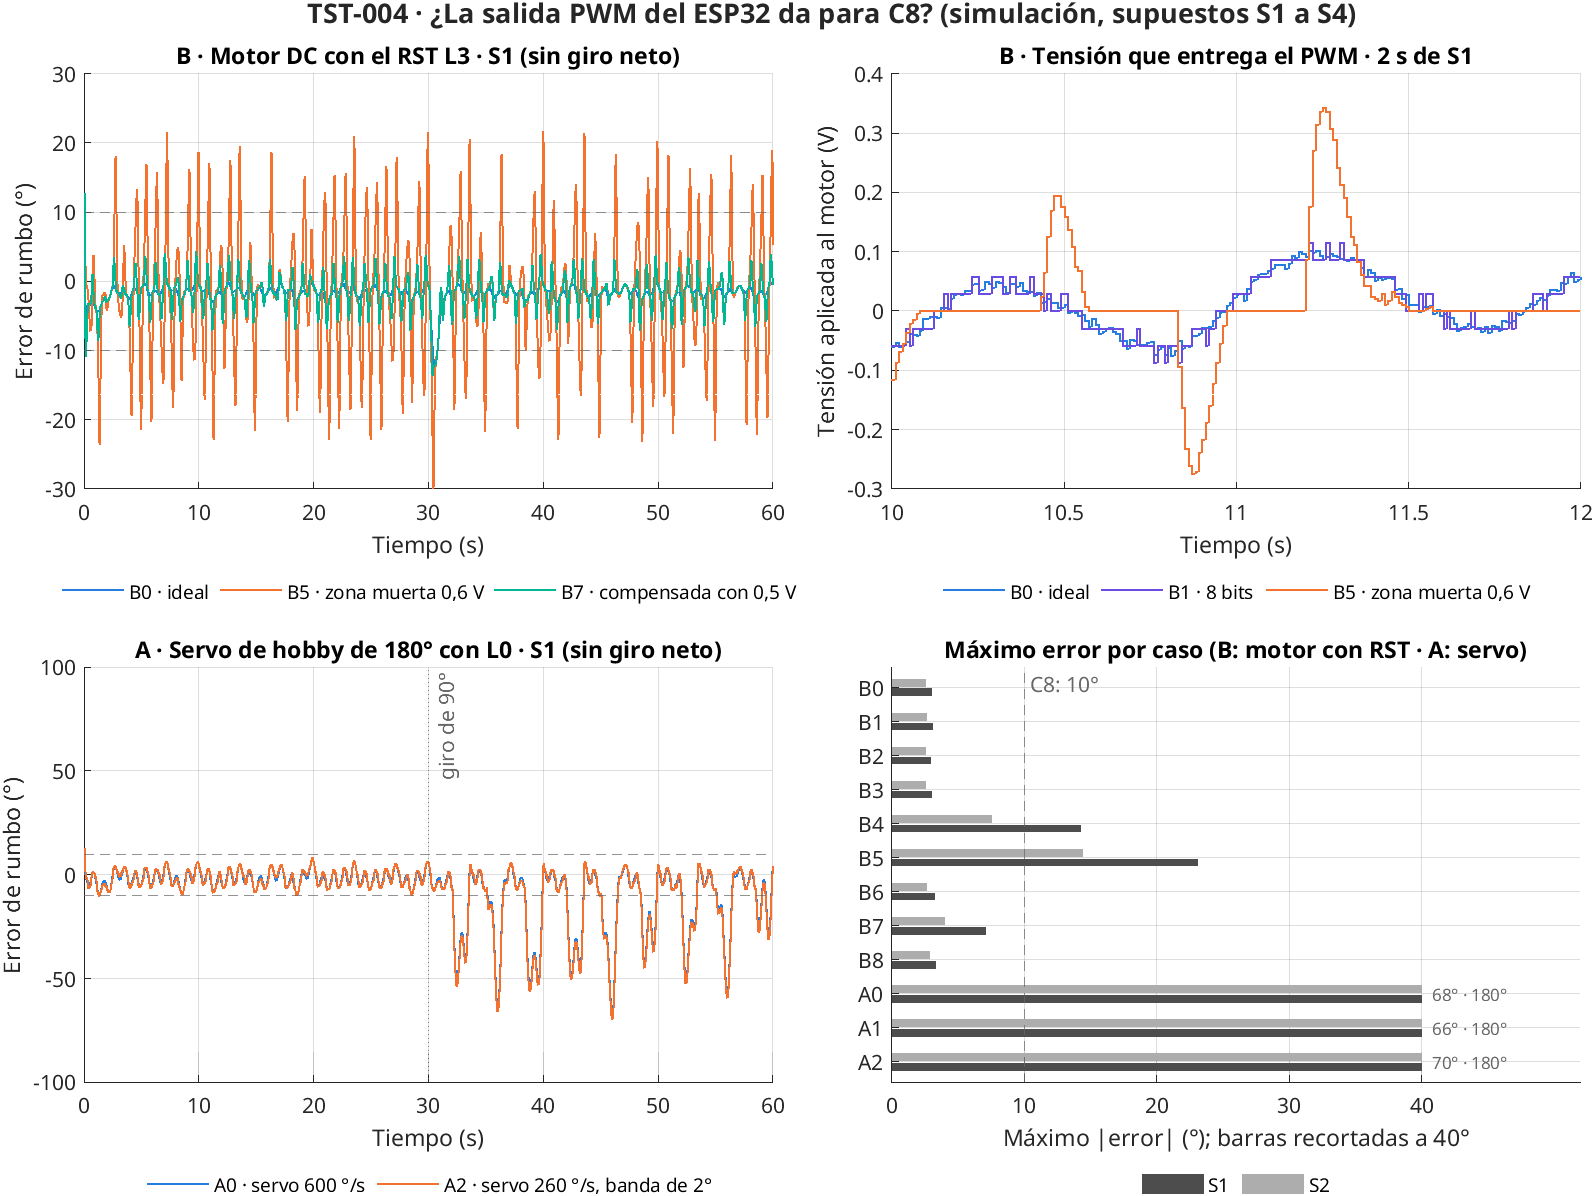
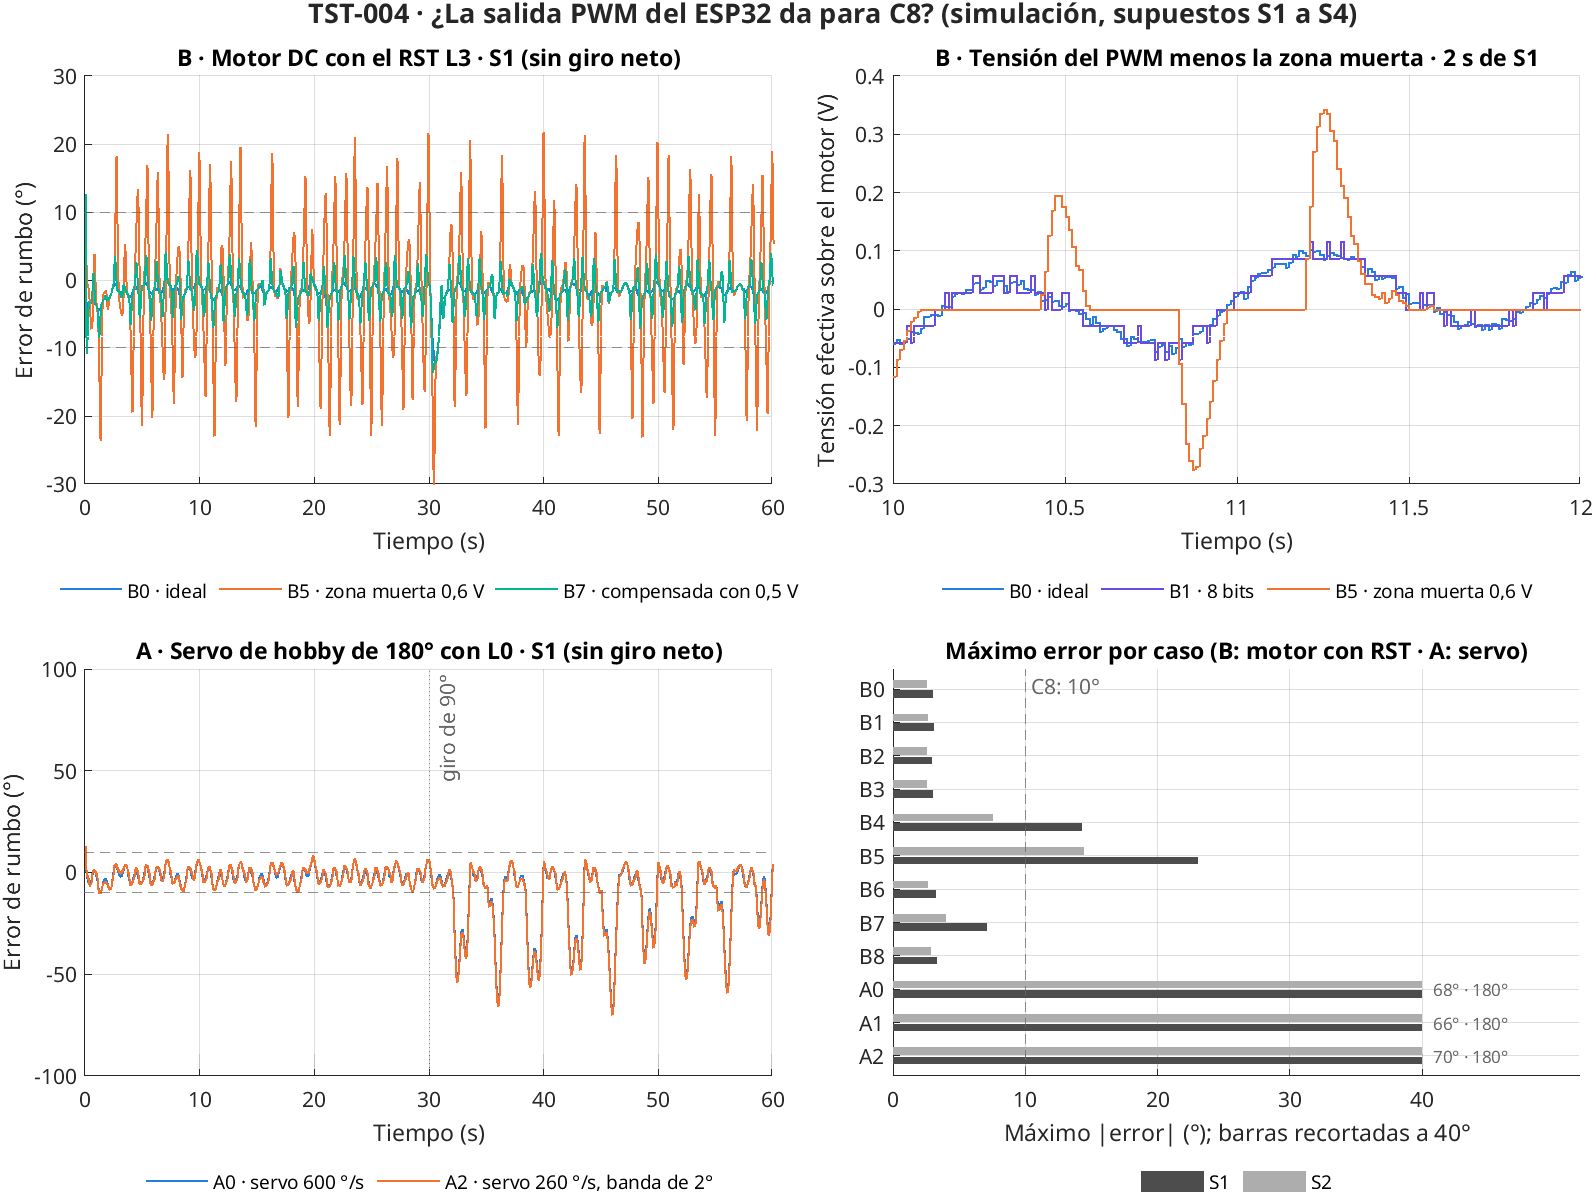
prueba: TST-004, correcciones de la revisión de Codex
- La figura rotula la tensión efectiva, después de la zona muerta.
- Las métricas usan t < 60 s con tiempos redondeados: las mismas 5300
  muestras que la réplica de Python.
- El script exige el bloque con la compensación DZ_HAT.
- TST-004·M9 anota las diferencias deterministas entre las réplicas.
  Ningún veredicto cambia.

diff --git a/sim/tst_004_pwm_actuador.m b/sim/tst_004_pwm_actuador.m
@@ -77,8 +77,9 @@ casosA = {'A0', 'servo 16 bits, 600 °/s, 0,5°',        16,  600, 0.5;
           'A2', 'servo 16 bits, 260 °/s, 2° (lento)',  16,  260, 2.0};
 
 load_system(fullfile(raiz, 'sim', [mdl '.slx']));
-if isempty(find_system(mdl, 'SearchDepth', 1, 'Regexp', 'on', 'Name', '^ACTUADOR PWM'))
-    error('sim/%s.slx no tiene el bloque ACTUADOR PWM: correr antes sim/simulink_lazo_camara_l3.m', mdl);
+if isempty(find_system(mdl, 'Regexp', 'on', 'Name', '^ACTUADOR PWM')) || ...
+   isempty(find_system(mdl, 'BlockType', 'Gain', 'Gain', 'DZ_HAT'))
+    error('sim/%s.slx no tiene el bloque ACTUADOR PWM con la compensación DZ_HAT: correr antes sim/simulink_lazo_camara_l3.m', mdl);
 end
 
 prm = struct('T', T, 'NSUB', NSUB, 'TF', TF, 'D2R', D2R, 'R2D', R2D, 'bias_g', bias_g, 'sig_g', sig_g, ...
@@ -101,7 +102,7 @@ for n = 1:2
         tt = out.e_deg.Time;  e = squeeze(out.e_deg.Data);  ec = squeeze(out.ec_deg.Data);
         u = squeeze(out.u_V.Data);  uap = squeeze(out.u_pwm_V.Data);
         sat = 100*mean(abs(u(tt >= 5)) >= UMAX - 1e-9);
-        met = metricas(tt, e, ec, u, uap, sat);
+        met = metricas(tt, e, ec, u, uap, sat, TF);
         filas(end+1, :) = [{'motor_rst_l3', cs, nom, esc, nb, udz, dzh, vb, vbh, NaN, NaN}, num2cell(met)]; %#ok<SAGROW>
         traza.(esc).(cs) = struct('t', tt, 'e', e, 'u', u, 'uap', uap);
     end
@@ -110,7 +111,7 @@ for n = 1:2
         [cs, nom, nb, vmax, db] = casosA{c, :};
         fprintf('Simulando %s %s (%s)...\n', esc, cs, nom);
         [tt, e, ec, tope] = sim_servo(psib_data(:, 2), wb_data(:, 2), nb, vmax*D2R, db*D2R, prm);
-        met = metricas(tt, e, ec, nan(size(tt)), nan(size(tt)), tope);
+        met = metricas(tt, e, ec, nan(size(tt)), nan(size(tt)), tope, TF);
         filas(end+1, :) = [{'servo_l0', cs, nom, esc, nb, NaN, NaN, NaN, NaN, vmax, db}, num2cell(met)]; %#ok<SAGROW>
         traza.(esc).(cs) = struct('t', tt, 'e', e);
     end
@@ -153,8 +154,8 @@ for sp = {{'B0', 'ideal'}, {'B1', '8 bits'}, {'B5', 'zona muerta 0,6 V'}}
     s = traza.S1.(sp{1}{1});  w = s.t >= 10 & s.t <= 12;
     stairs(ax, s.t(w), s.uap(w), 'Color', col.(sp{1}{1}), 'LineWidth', 1, 'DisplayName', [sp{1}{1} ' · ' sp{1}{2}]);
 end
-grid(ax, 'on'); xlabel(ax, 'Tiempo (s)'); ylabel(ax, 'Tensión aplicada al motor (V)');
-title(ax, 'B · Tensión que entrega el PWM · 2 s de S1');
+grid(ax, 'on'); xlabel(ax, 'Tiempo (s)'); ylabel(ax, 'Tensión efectiva sobre el motor (V)');
+title(ax, 'B · Tensión del PWM menos la zona muerta · 2 s de S1');
 legend(ax, 'Location', 'southoutside', 'Orientation', 'horizontal', 'Box', 'off');
 
 ax = nexttile(tl, 3);  hold(ax, 'on');
@@ -194,8 +195,13 @@ fprintf('Listo: derivados/tst-004-*.csv y salida/figuras/tst-004-pwm-actuador.pn
 
 
 %% ============================================================ funciones locales
-function met = metricas(tt, e, ec, u, uap, sat)
-% Mismas métricas que simulink_lazo_camara_l3.m, más el RMS de la tensión aplicada y la saturación.
+function met = metricas(tt, e, ec, u, uap, sat, TF)
+% Mismas métricas que simulink_lazo_camara_l3.m, más el RMS de la tensión efectiva y la saturación.
+% Tiempos redondeados a 1 µs y t < TF, para que Simulink (que registra también t = TF), el servo y
+% la réplica de Python usen las mismas 5300 muestras en la ventana de C8.
+tt = round(tt*1e6)/1e6;  k = tt < TF;
+tt = tt(k);  e = e(k);  ec = ec(k);  u = u(k);  uap = uap(k);
+if numel(sat) > 1, sat = sat(k); end
 m = (tt >= 5) & ~((tt >= 30) & (tt < 32));
 du = diff(u(tt >= 5));  dua = diff(uap(tt >= 5));
 if numel(sat) > 1, sat = 100*mean(sat(tt >= 5)); end

diff --git a/Pruebas/tst-004-salida-pwm-actuador.md b/Pruebas/tst-004-salida-pwm-actuador.md
@@ -89,7 +89,7 @@ Máximo error real de la cámara fuera de la ventana de 30 a 32 s del giro de C1
 
 - **M1.** El caso ideal (B0) reproduce la réplica de Simulink del diseño: 3,01° en S1 y 2,60° en S2. Agregar el bloque PWM no cambió nada.
 - **M2.** La orden de L3 nunca pasa de 0,15 V en S1 ni de 0,12 V en S2 (B0, columna `u_max_V`). Confirma P1.
-- **M3.** Los bits del PWM casi no mueven el error: con 8, 10 y 11 bits, el máximo queda entre 2,57° y 3,08°. Con 8 bits, el RMS de los saltos de la tensión aplicada sube a 15,51 mV en S1 y 15,62 mV en S2, frente a 8,87 y 8,26 mV del caso ideal. Es el doble de actividad del motor para el mismo error.
+- **M3.** Los bits del PWM casi no mueven el error: con 8, 10 y 11 bits, el máximo queda entre 2,57° y 3,08°. Con 8 bits, el RMS de los saltos de la tensión sobre el motor sube a 15,50 mV en S1 y 15,63 mV en S2, frente a 8,87 y 8,26 mV del caso ideal. Es el doble de actividad del motor para el mismo error.
 - **M4.** Una batería de 6,4 V que el firmware cree de 7,4 V deja 3,22° y 2,67° (B6). Es la misma robustez ante el cambio de ganancia que M5 del diseño.
 - **M5.** **La zona muerta del motor es lo que rompe C8.**
   - Con 0,3 V sin compensar, S1 llega a 14,29° y pasa de 10° el 8,04 % del tiempo.
@@ -97,12 +97,19 @@ Máximo error real de la cámara fuera de la ventana de 30 a 32 s del giro de C1
   - El integrador del RST termina venciendo la zona muerta: la orden sube a 0,59 V y 1,02 V en S1. Pero cada cambio de sentido del balanceo vuelve a pasar por la zona muerta, y ahí el error crece.
   - En el giro continuo (S2), la orden casi no cambia de signo, y por eso el daño es menor.
 - **M6.** Compensar la zona muerta en el firmware la recupera: 0,5 V de compensación sobre 0,6 V reales deja 7,11° en S1 y 4,02° en S2 (B7). Cumple, pero en S1 gasta más de dos tercios de los 10°.
-- **M7.** Pasarse en la compensación (0,7 V sobre 0,6 V, B8) baja el error a 3,34° y 2,90°, pero el RMS de los saltos de tensión sube a 136,25 y 135,84 mV, unas 15 veces el caso ideal. El motor zumbaría: el signo cambia alrededor de cero y cada vez entrega el sobrante de 0,1 V.
+- **M7.** Pasarse en la compensación (0,7 V sobre 0,6 V, B8) baja el error a 3,34° y 2,90°, pero el RMS de los saltos de la tensión efectiva, después de la zona muerta, sube a 136,26 y 135,82 mV, unas 15 veces el caso ideal. El motor zumbaría: el signo cambia alrededor de cero y cada vez entrega el sobrante de 0,1 V.
 - **M8.** El servo de hobby de 180° con L0 no da en ningún caso: entre 66,04° y 69,73° en S1 y ≈ 180° en S2. La orden pide más de ±90° el 25,42 % del tiempo en S1, sobre todo después del giro de 90° de C11, y el 51,93 % en S2. Los bits (A1) y la velocidad del servo (A2) no cambian el veredicto. Falla por **recorrido**, no por el PWM. Es lo mismo que M4 del diseño y [RSK-001](../Riesgos/rsk-001-rango-servo-camara.md).
 - **M9.** Cruce entre MATLAB y Python:
   - las dos implementaciones dan el mismo veredicto en 23 de los 24 casos;
   - la excepción es B4 en S2: 7,59° en MATLAB y 10,64° en Python, donde solo el 0,06 % de las muestras pasa de 10°. Ese caso queda en el borde y depende del ruido: **no concluyente**;
-  - en el servo con S1, el máximo difiere (68,24° frente a 80,33°) porque el componente aleatorio del giro del cuerpo sale de generadores distintos. El tiempo sobre 10° casi coincide: 22,80 % y 21,45 %.
+  - la revisión de Codex del código de MATLAB no encontró errores de lógica. Sí encontró diferencias deterministas entre las réplicas, que son donde buscar si B4 en S2 importa:
+    - el observador de Simulink arranca sin ruido magnético;
+    - `perfil_cuerpo.m` normaliza S1 con `std` de n − 1, y Python con n;
+    - Simulink interpola $\alpha_b$ dentro de cada paso;
+    - los empates de redondeo del pulso se resuelven distinto.
+
+    Las métricas ya usan la misma ventana en las dos réplicas: t < 60 s, con 5300 muestras;
+  - en el servo con S1, el máximo difiere (68,24° frente a 80,33°) porque el componente aleatorio del giro del cuerpo sale de generadores distintos. El tiempo sobre 10° casi coincide: 22,79 % y 21,45 %.
 
 ### Veredicto de la simulación
 

diff --git a/log.md b/log.md
@@ -256,3 +256,17 @@ El calendario de la guía sitúa el PDR a 70 días. Sigue abierto el riesgo alto
 ## 2026-11-25 · estado · TST-004 simulada; PDR en 64 días
 
 El servo de 180° no cumple C8. El motor con el RST sí cumple, si se compensa su zona muerta. Siguen abiertos un riesgo alto (RSK-002) y la matriz sin RQ ni RC. [Estado](estado.md)
+
+## 2026-11-25 · control · Revisión de Codex del código de MATLAB de TST-004
+
+- Codex revisó `tst_004_pwm_actuador.m`, el constructor de Simulink y `perfil_cuerpo.m`, sin ejecutar nada. No encontró errores de lógica: el anti-windup, el orden de la etapa PWM, el retorno de `solo_parametros` y las variables del workspace están bien.
+- Se corrigió:
+  1. la figura llamaba «tensión que entrega el PWM» a la tensión después de la zona muerta;
+  2. las métricas usan ahora t < 60 s, con tiempos redondeados, para que las dos réplicas cuenten las mismas 5300 muestras;
+  3. el script exige el bloque con la compensación `DZ_HAT`.
+- Solo cambian centésimas de algunos porcentajes y RMS. Ningún máximo ni veredicto cambia.
+- Las diferencias deterministas entre réplicas quedaron anotadas en TST-004·M9 como lugar donde buscar la discrepancia de B4 en S2:
+  - el arranque del observador;
+  - `std` con n − 1;
+  - la interpolación de α_b;
+  - los empates de redondeo.
